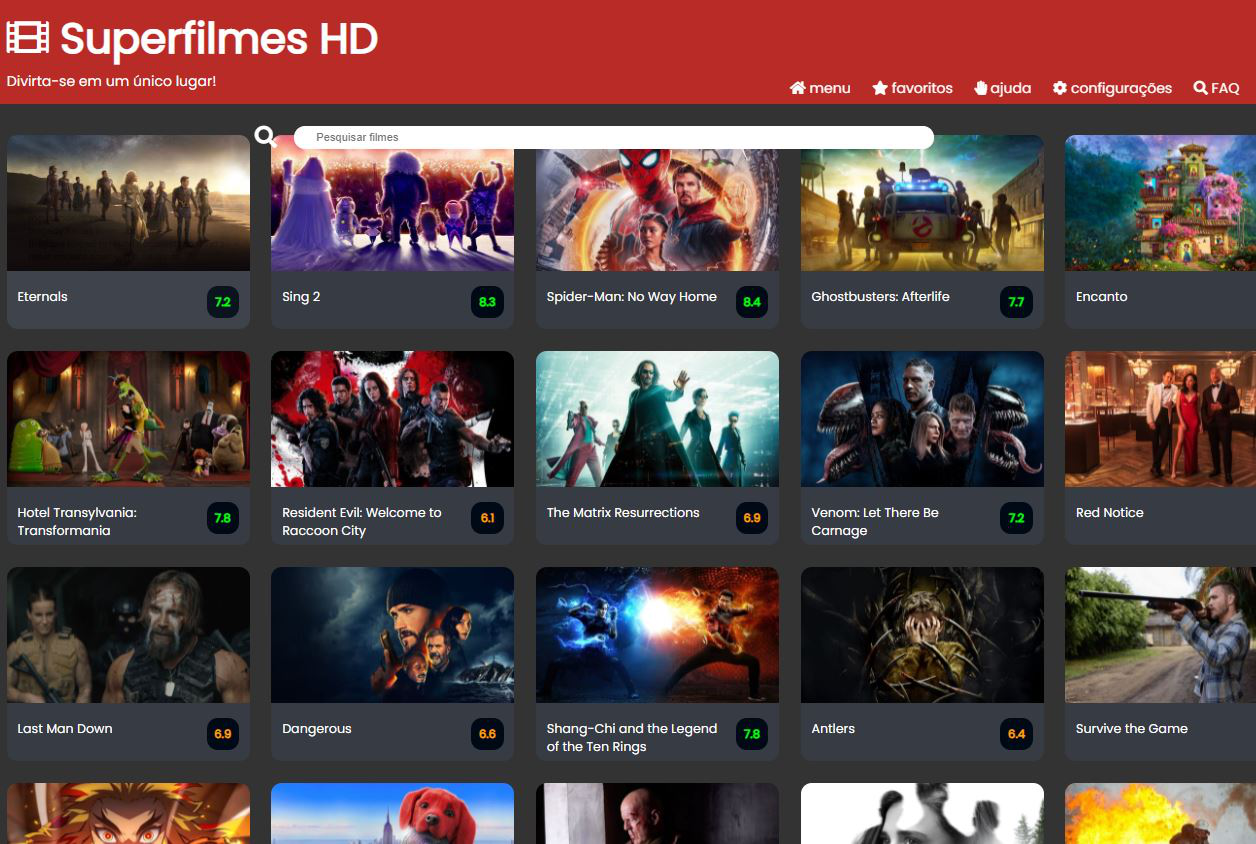
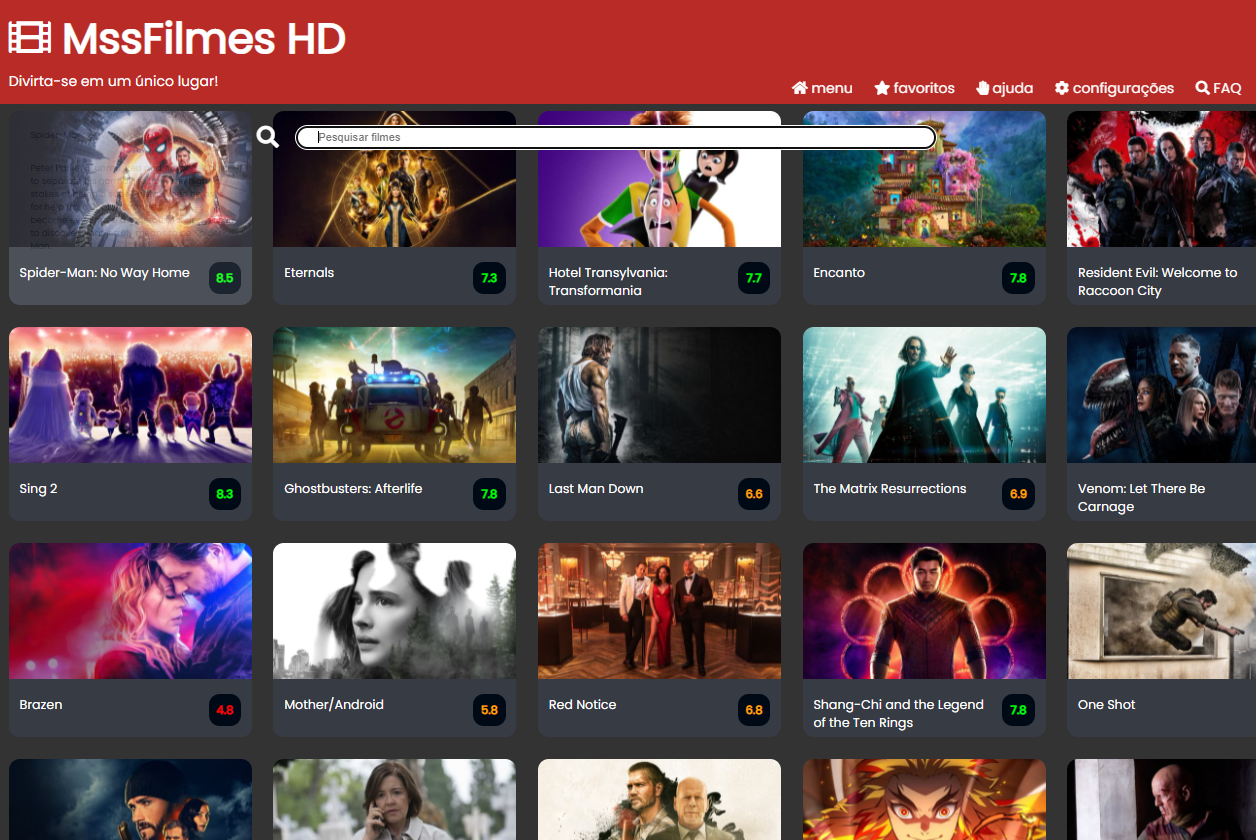
port

diff --git a/portifolio_vs1/src/Components/Websites/Websites.tsx b/portifolio_vs1/src/Components/Websites/Websites.tsx
@@ -75,7 +75,7 @@ const Websites = () => {
           </div>
           <div className="Website_card">
             <img src={Hotel} alt="" />
-            <p>Hotel Paraíso</p>
+            <p>Slides na Vertical</p>
             <div className="actionCard">
               <div className="gitHub">
                 <svg viewBox="0 0 128 128">
@@ -132,7 +132,7 @@ const Websites = () => {
           </div>
           <div className="Website_card">
             <img src={ReactFood} alt="" />
-            <p>AllFoods</p>
+            <p>Mídias Sociais</p>
             <div className="actionCard">
               <div className="gitHub">
                 <svg viewBox="0 0 128 128">
@@ -151,7 +151,7 @@ const Websites = () => {
           </div>
           <div className="Website_card">
             <img src={SuperFilms} alt="" />
-            <p>Superfilmes HD</p>
+            <p>MssFilmes HD</p>
             <div className="actionCard">
               <div className="gitHub">
                 <svg viewBox="0 0 128 128">

diff --git a/Projects/filmes/index.html b/Projects/filmes/index.html
@@ -4,7 +4,7 @@
         <meta charset="UTF-8">
         <meta http-equiv="X-UA-Compatible" content="IE=edge">
         <meta name="viewport" content="width=device-width, initial-scale=1.0">
-        <title>Superfilmes HD</title>
+        <title>MssFilmes HD</title>
         <script src="https://kit.fontawesome.com/0267d3181d.js" crossorigin="anonymous"></script>
         <link rel="stylesheet" href="style.css">
     </head>
